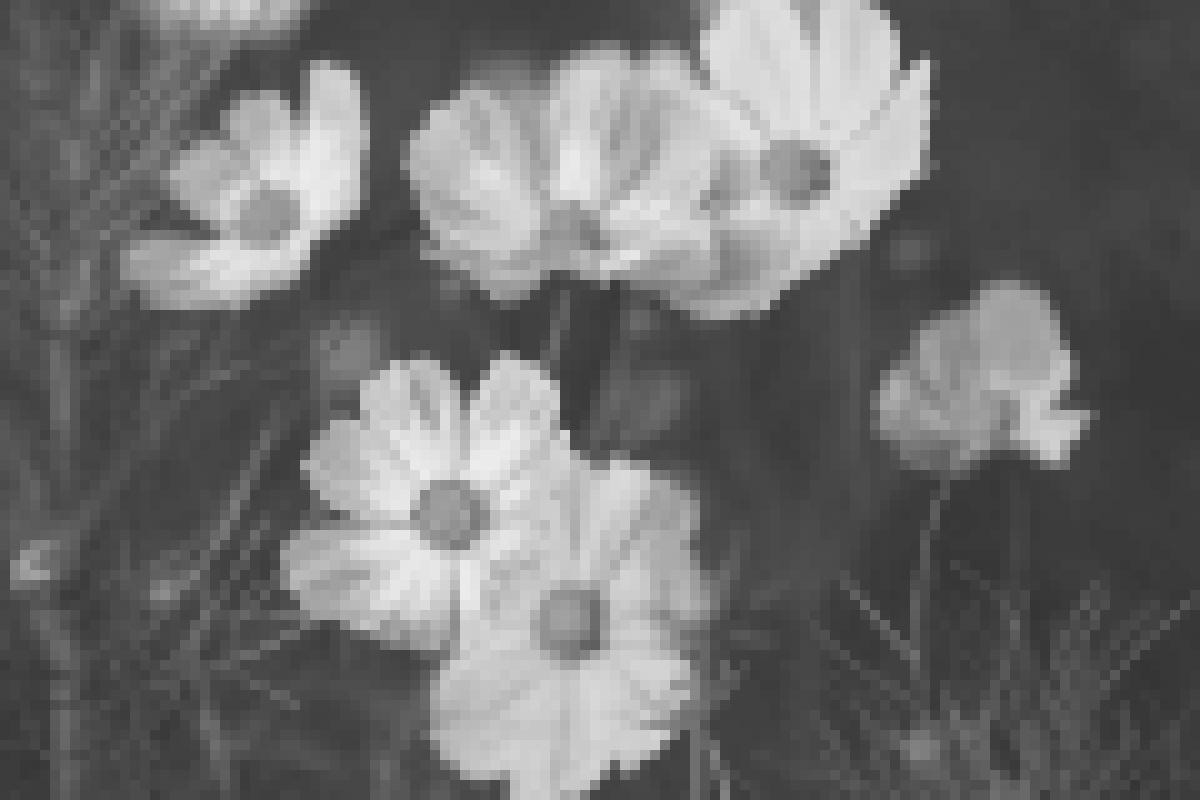
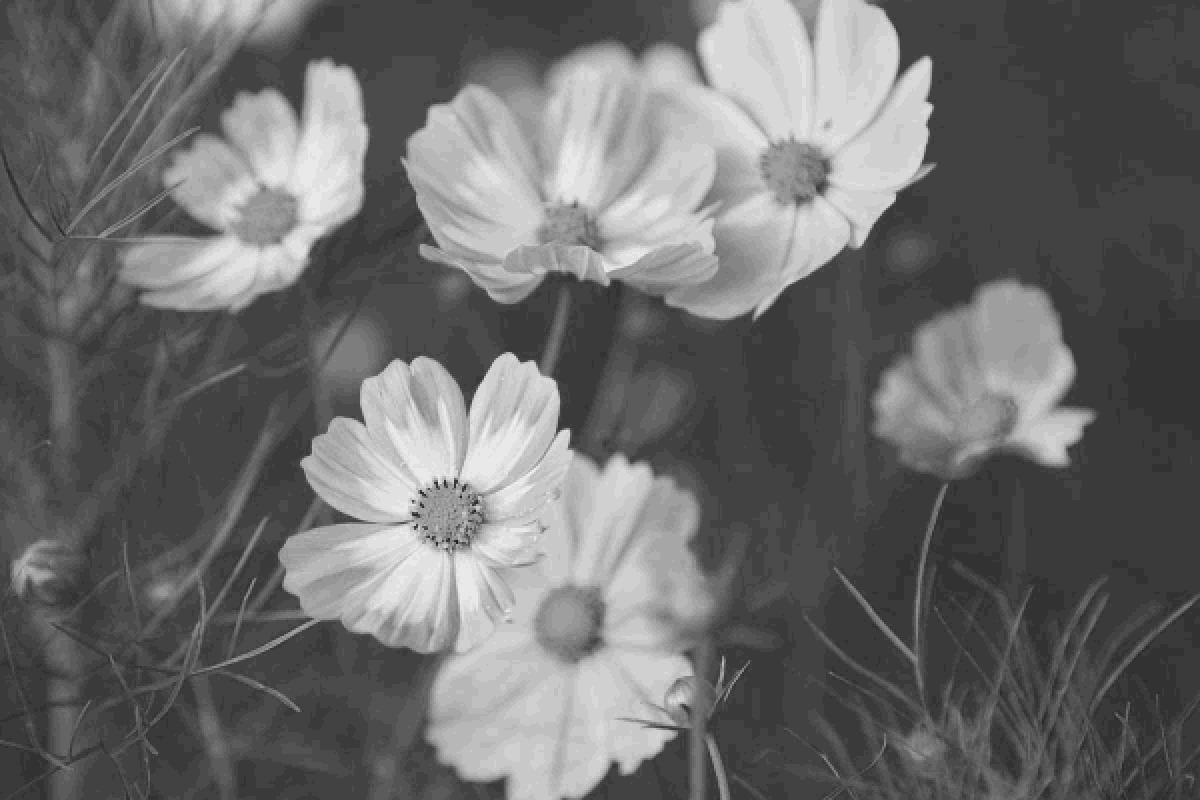
fix

diff --git a/filter_with_filename.py b/filter_with_filename.py
@@ -45,4 +45,4 @@ def set_color(new_c, matrix, size, i, j):
                 matrix[x][y][z] = new_c
 
 
-get_mosaic("img2.jpg", 10, 50).save('res1.jpg')
+get_mosaic("img2.jpg", 2, 10).save('res1.jpg')

diff --git a/old_filter.py b/old_filter.py
@@ -1,7 +1,7 @@
 from PIL import Image
 
 import numpy as np
-img = Image.open("../../../Desktop/fet/img2.jpg")
+img = Image.open("img2.jpg")
 arr = np.array(img)
 a = len(arr)
 a1 = len(arr[1])

diff --git a/README.md b/README.md
@@ -10,6 +10,7 @@
 ## Исходное изображение:
 ![](img2.jpg)
 ## Изображение после ***old_filter.py***:
-![img.png](screens/resimg1.png)
+![img.png](screens/resimg.png)
 ## Изображение после ***filter_with_filename.py***:
 ![img.png](screens/resimg1.png)
+# Doc-тестов нет.
